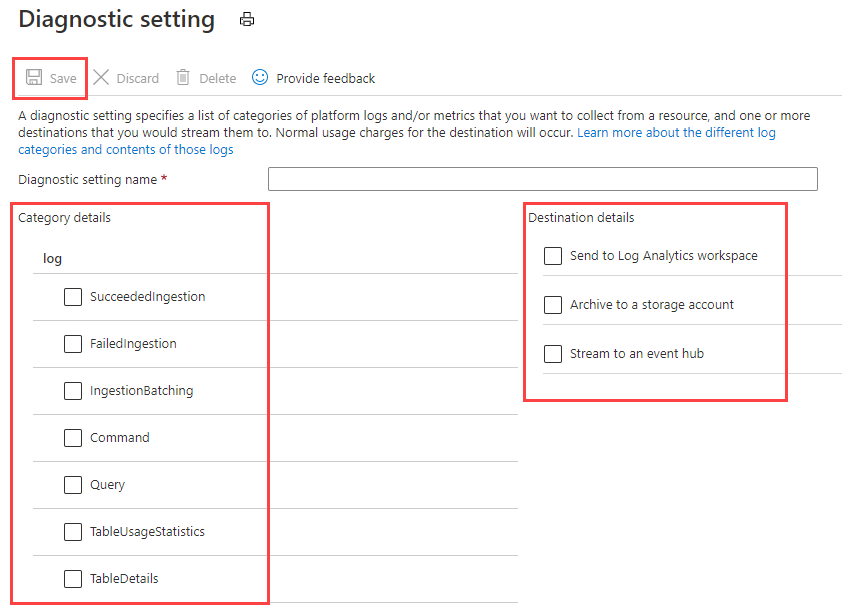
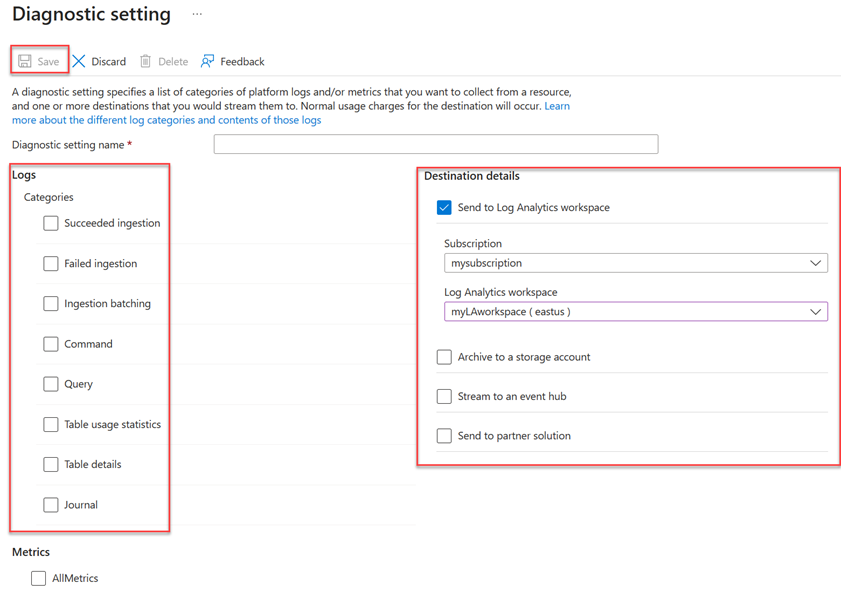
updates

Changed region(s): [[0.0, 0.0, 0.9572, 1.0], [0.3088, 0.2714, 1.0, 0.7839]]

diff --git a/data-explorer/using-diagnostic-logs.md b/data-explorer/using-diagnostic-logs.md
@@ -72,11 +72,11 @@ Diagnostic logs are disabled by default. To enable diagnostic logs, do the follo
 1. Select **Add diagnostic setting**.
 1. In the **Diagnostic settings** window:
 
-    :::image type="content" source="media/using-diagnostic-logs/configure-diagnostics-settings.png" alt-text="Configure diagnostics settings.":::
+    :::image type="content" source="media/using-diagnostic-logs/configure-diagnostics-settings.png" alt-text="Screenshot of the Diagnostic settings screen, on which you configure which monitoring data to collect for your Azure Data Explorer cluster.":::
 
     1. Enter a **Diagnostic setting name**.
     1. Select one or more targets: a Log Analytics workspace, a storage account, or an event hub.
-    1. Select logs to be collected: `SucceededIngestion`, `FailedIngestion`, `IngestionBatching`, `Command`, or `Query`, `TableUsageStatistics`, or `TableDetails`.
+    1. Select logs to be collected: **Succeeded ingestion**, **Failed ingestion**, **Ingestion batching**, **Command**, **Query**, **Table usage statistics**, **Table details**, or **Journal**.
     1. Select [metrics](using-metrics.md#supported-azure-data-explorer-metrics) to be collected (optional).  
     1. Select **Save** to save the new diagnostic logs settings and metrics.
 
